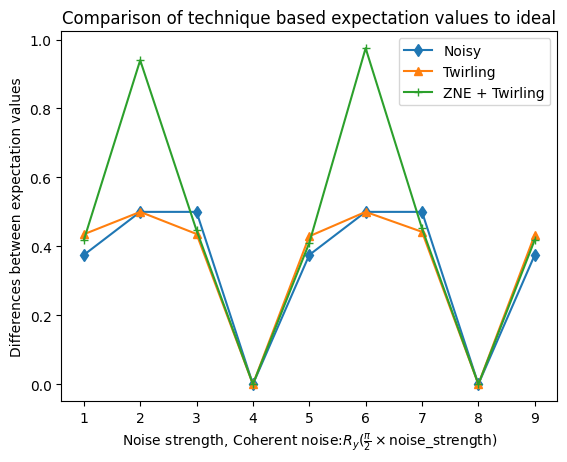
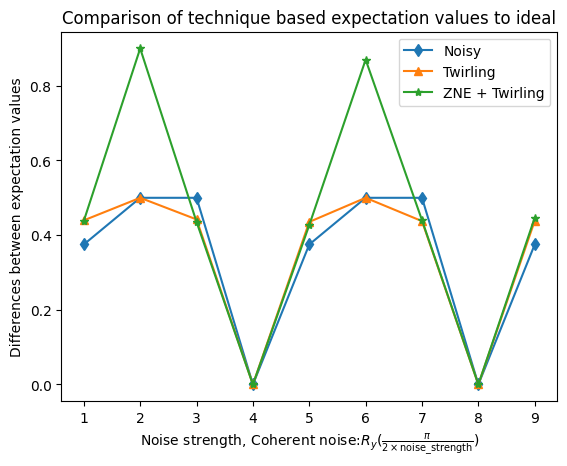
correct plot typo

diff --git a/docs/source/examples/pt_zne.md b/docs/source/examples/pt_zne.md
@@ -362,10 +362,10 @@ for strength in noise_strength:
     
 plt.plot(noise_strength, error_no_zne_no_twirling,"-d", label="Noisy", color="#1f77b4")
 plt.plot(noise_strength, error_with_twirling,"-^", label="Twirling", color="#ff7f0e")
-plt.plot(noise_strength, error_with_twirling_and_zne, "-+", label="ZNE + Twirling", color="#2ca02c")
+plt.plot(noise_strength, error_with_twirling_and_zne, "-*", label="ZNE + Twirling", color="#2ca02c")
 
 
-plt.xlabel(r"Noise strength, Coherent noise:$R_y(\frac{\pi}{2} \times \text{noise_strength})$")
+plt.xlabel(r"Noise strength, Coherent noise:$R_y(\frac{\pi}{2 \times \text{noise_strength}})$")
 plt.ylabel("Differences between expectation values")
 plt.title("Comparison of technique based expectation values to ideal")
 plt.legend()
